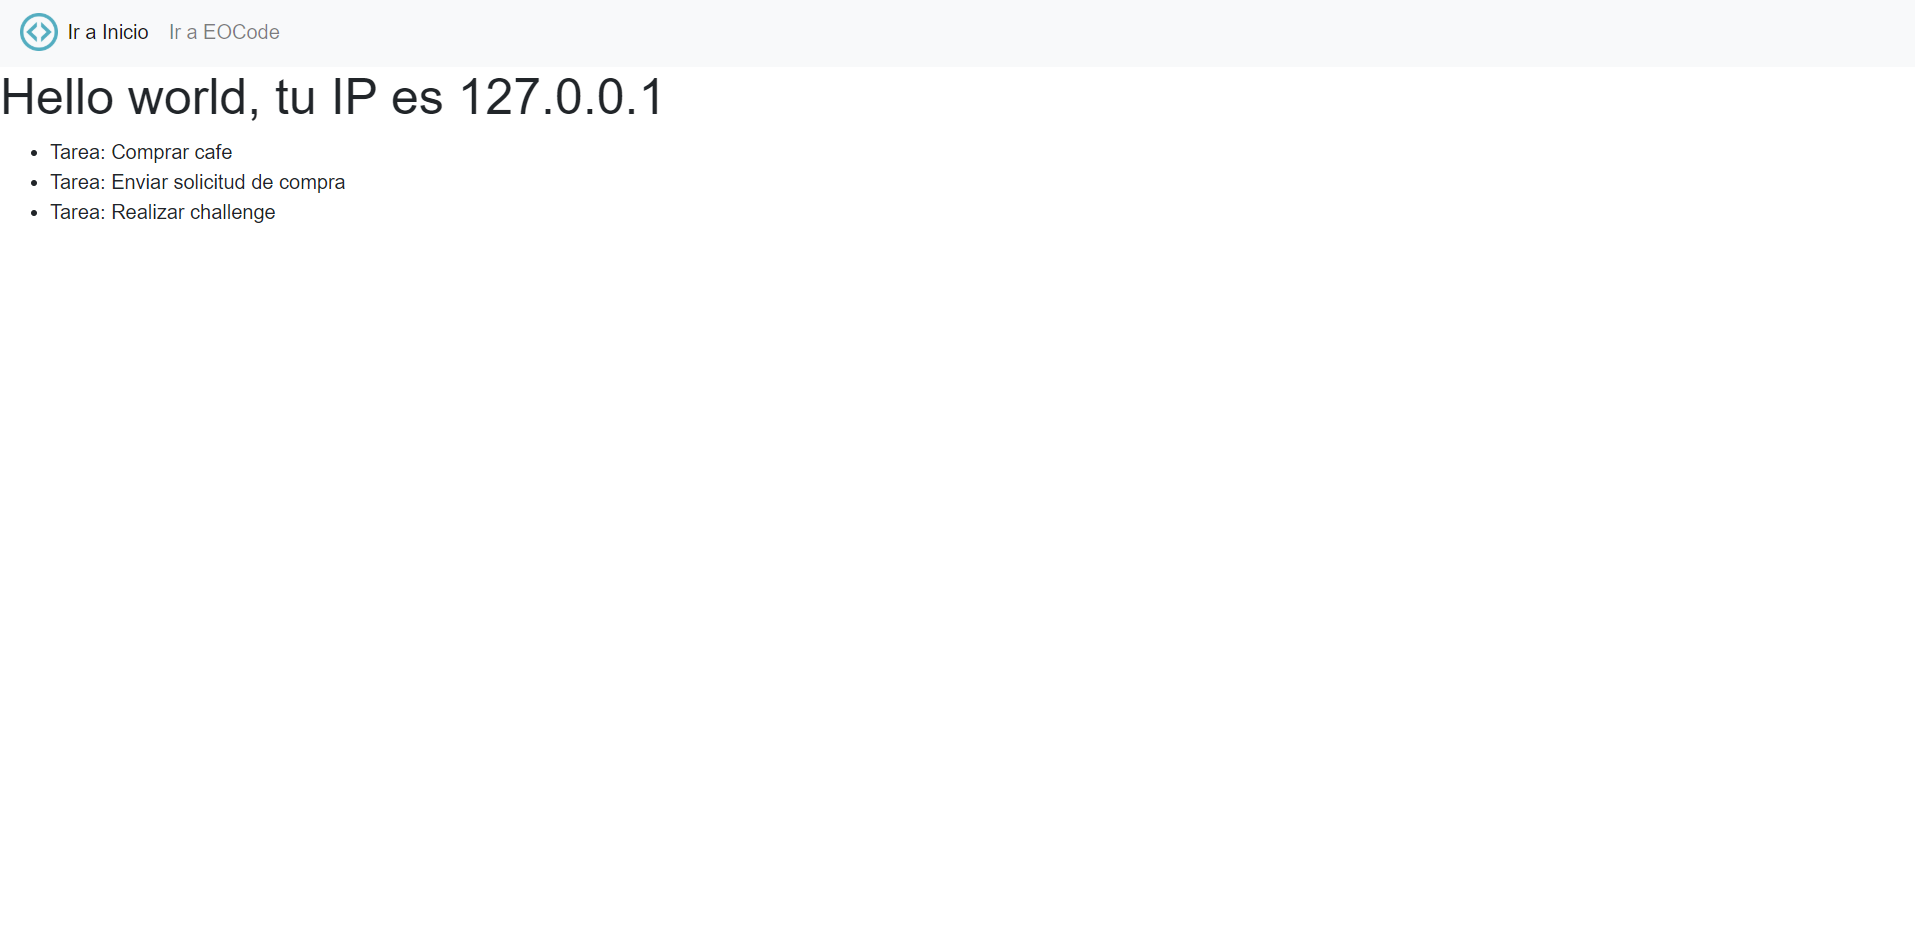
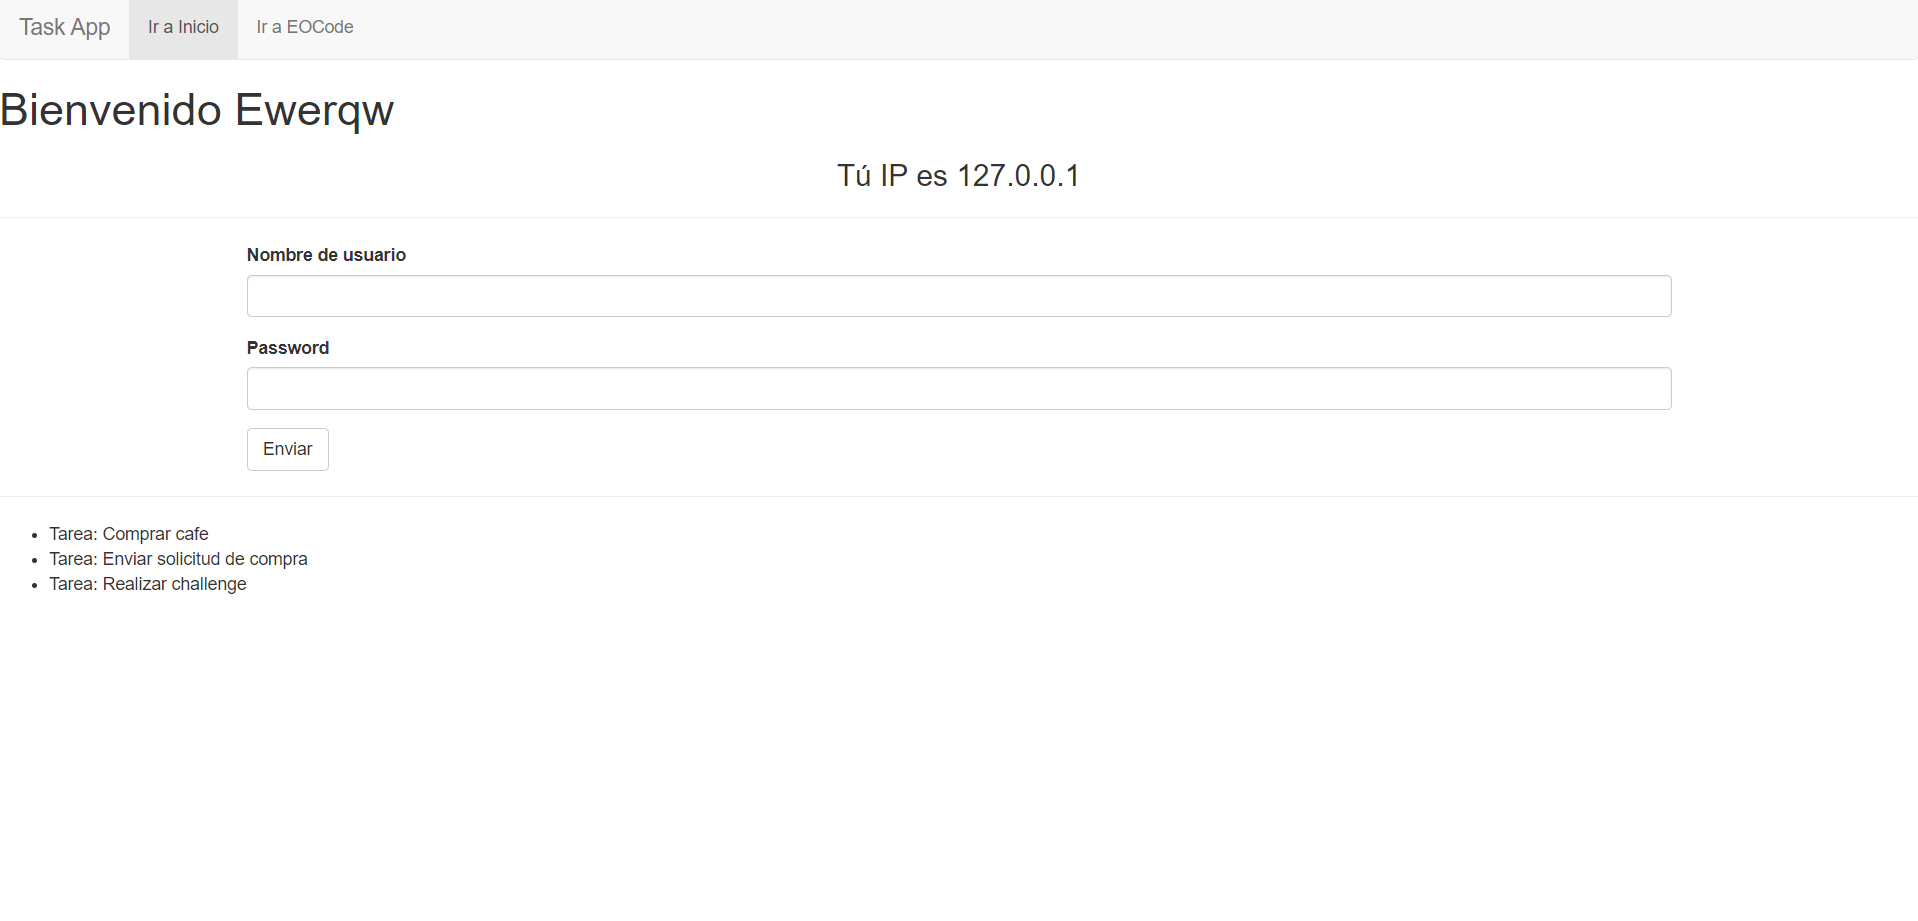
Add Form and usename login

diff --git a/flask-app/templates/navbar.html b/flask-app/templates/navbar.html
@@ -1,28 +1,40 @@
-<nav class="navbar navbar-expand-lg navbar-light bg-light">
-  <img src="{{ url_for('static', filename='images/logo.png') }}" alt="Logo" />
-  <button
-    class="navbar-toggler"
-    type="button"
-    data-toggle="collapse"
-    data-target="#navbarNav"
-    aria-controls="navbarNav"
-    aria-expanded="false"
-    aria-label="Toggle navigation"
-  >
-    <span class="navbar-toggler-icon"></span>
-  </button>
-  <div class="collapse navbar-collapse" id="navbarNav">
-    <ul class="navbar-nav">
-      <li class="nav-item active">
-        <a class="nav-link" href="{{ url_for('index') }}"
-          >Ir a Inicio <span class="sr-only">(current)</span></a
-        >
-      </li>
-      <li class="nav-item">
-        <a class="nav-link" href="https://eliasojedamedina.com" target="__blank"
-          >Ir a EOCode</a
-        >
-      </li>
-    </ul>
+<nav class="navbar navbar-default">
+  <div class="container-fluid">
+    <div class="navbar-header center-block">
+      <button
+        type="button"
+        class="navbar-toggle collapsed"
+        data-toggle="collapse"
+        data-target="#bs-example-navbar-collapse-1"
+        aria-expanded="false"
+      >
+        <span class="sr-only">Toggle navigation</span>
+        <span class="icon-bar"></span>
+        <span class="icon-bar"></span>
+        <span class="icon-bar"></span>
+      </button>
+      <a class="navbar-brand" href="#">Task App</a>
+    </div>
+
+    <!-- Collect the nav links, forms, and other content for toggling -->
+    <div class="collapse navbar-collapse" id="bs-example-navbar-collapse-1">
+      <ul class="nav navbar-nav">
+        <li class="nav-item active">
+          <a class="nav-link" href="{{ url_for('index') }}"
+            >Ir a Inicio <span class="sr-only">(current)</span></a
+          >
+        </li>
+        <li class="nav-item">
+          <a
+            class="nav-link"
+            href="https://eliasojedamedina.com"
+            target="__blank"
+            >Ir a EOCode</a
+          >
+        </li>
+      </ul>
+    </div>
+    <!-- /.navbar-collapse -->
   </div>
+  <!-- /.container-fluid -->
 </nav>

diff --git a/flask-app/templates/hello.html b/flask-app/templates/hello.html
@@ -1,21 +1,28 @@
-{% extends 'base.html' %}
-{% import 'macros.html' as macros %}
+{% extends 'base.html' %} 
+{% import 'macros.html' as macros %} 
+{% import'bootstrap/wtf.html' as wtf %} 
 
-{% block title %}
-    {{ super() }}
-    Bienvenido
-{% endblock %}
+{% block title %} 
+    {{ super() }} Bienvenido 
+{%endblock %} 
 
-{% block content %}
+{% block content %} 
+    {% if username %}
+        <h1>Bienvenido {{ username | capitalize }}</h1>
+    {% endif %}
     {% if user_ip %}
-        <h1>Hello world, tu IP es {{ user_ip }}</h1>
+        <h3 class="text-center">Tú IP es {{ user_ip }}</h3>
+        <hr />
     {% else %}
         <a href="{{ url_for('index') }}">Ir a inicio</a>
     {% endif %}
 
+    <div class="container">
+    {{ wtf.quick_form(login_form) }}
+    </div>
+
+    <hr/>
     <ul>
-        {% for todo in todos %}
-            {{ macros.render_todo(todo) }}
-        {% endfor %}
+    {% for todo in todos %} {{ macros.render_todo(todo) }} {% endfor %}
     </ul>
 {% endblock %}

diff --git a/flask-app/templates/base.html b/flask-app/templates/base.html
@@ -1,4 +1,4 @@
-{% extends 'bootstrap/base.html' %}
+{% extends "bootstrap/base.html" %}
 {% block head %}
     {{ super() }}
     <title>{% block title %}Flask app |{% endblock %}</title>

diff --git a/flask-app/main.py b/flask-app/main.py
@@ -1,30 +1,56 @@
-from flask import Flask, request, make_response, redirect, render_template
+from flask import Flask, request, make_response, redirect, render_template, session, url_for
 from flask_bootstrap import Bootstrap
+from flask_wtf import FlaskForm
+from wtforms import StringField, PasswordField, SubmitField
+from wtforms.validators import DataRequired
 
 app = Flask(__name__)
 Bootstrap(app)
+app.config['SECRET_KEY'] = 'SUPER SECRETO'
+
 todos = ['Comprar cafe', 'Enviar solicitud de compra', 'Realizar challenge']
+
+
+class LoginForm(FlaskForm):
+    username = StringField('Nombre de usuario', validators=[DataRequired()])
+    password = PasswordField('Password', validators=[DataRequired()])
+    submit = SubmitField('Enviar')
 
 @app.errorhandler(404)
 def not_found(error):
     return render_template('404.html', error=error)
 
+
 @app.errorhandler(500)
 def not_found(error):
     return render_template('500.html', error=error)
+
 
 @app.route('/')
 def index():
     user_ip = request.remote_addr
     response = make_response(redirect('/hello'))
-    response.set_cookie('user_ip', user_ip)
+    session['user_ip'] = user_ip
     return response
 
-@app.route('/hello')
+
+@app.route('/hello', methods=['GET','POST'])
 def hello():
-    user_ip = request.cookies.get('user_ip')
+    user_ip = session.get('user_ip')
+    form = LoginForm()
+    username = session.get('username')
+
     context = {
-        'user_ip':user_ip, 
-        'todos':todos
+        'user_ip': user_ip,
+        'todos': todos,
+        'login_form': form,
+        'username': username
     }
+
+    if form.validate_on_submit():
+        username = form.username.data
+        session['username'] = username
+
+        return redirect(url_for('index'))
+
     return render_template('hello.html', **context)
